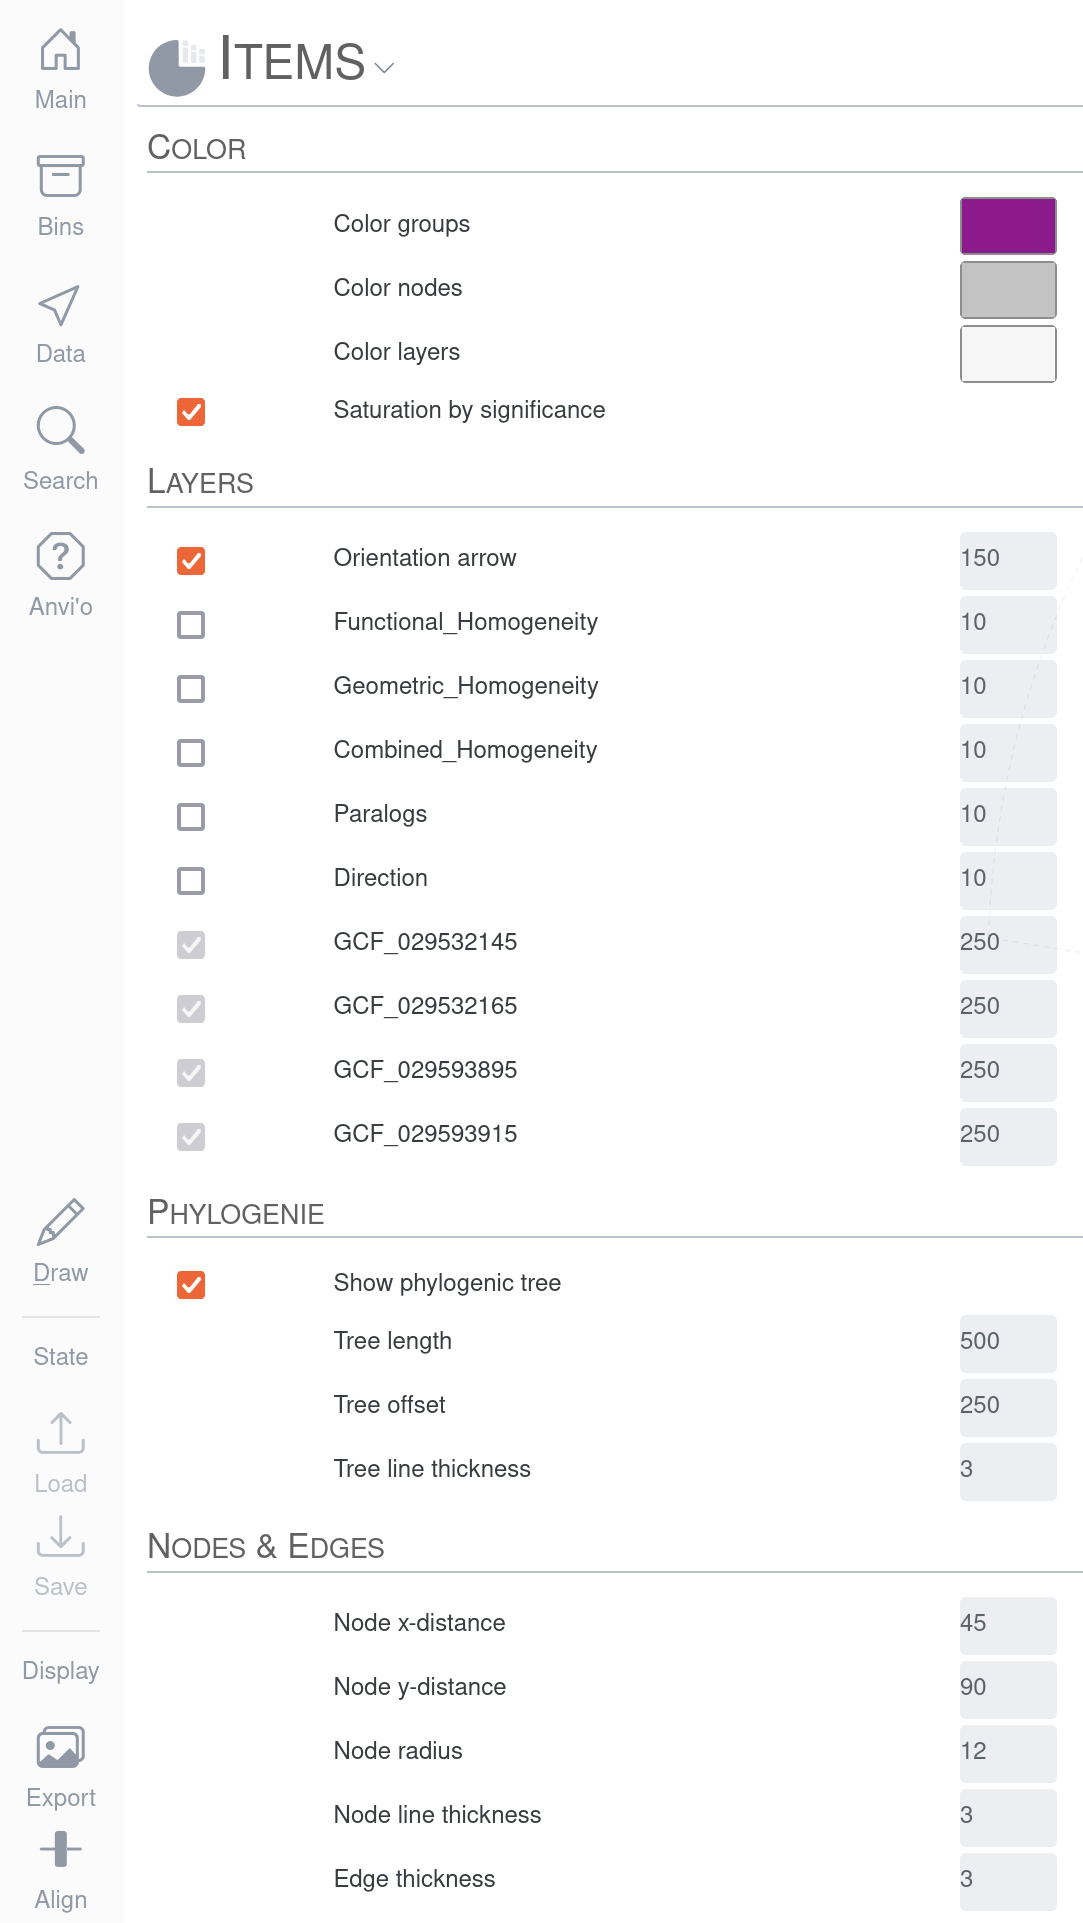
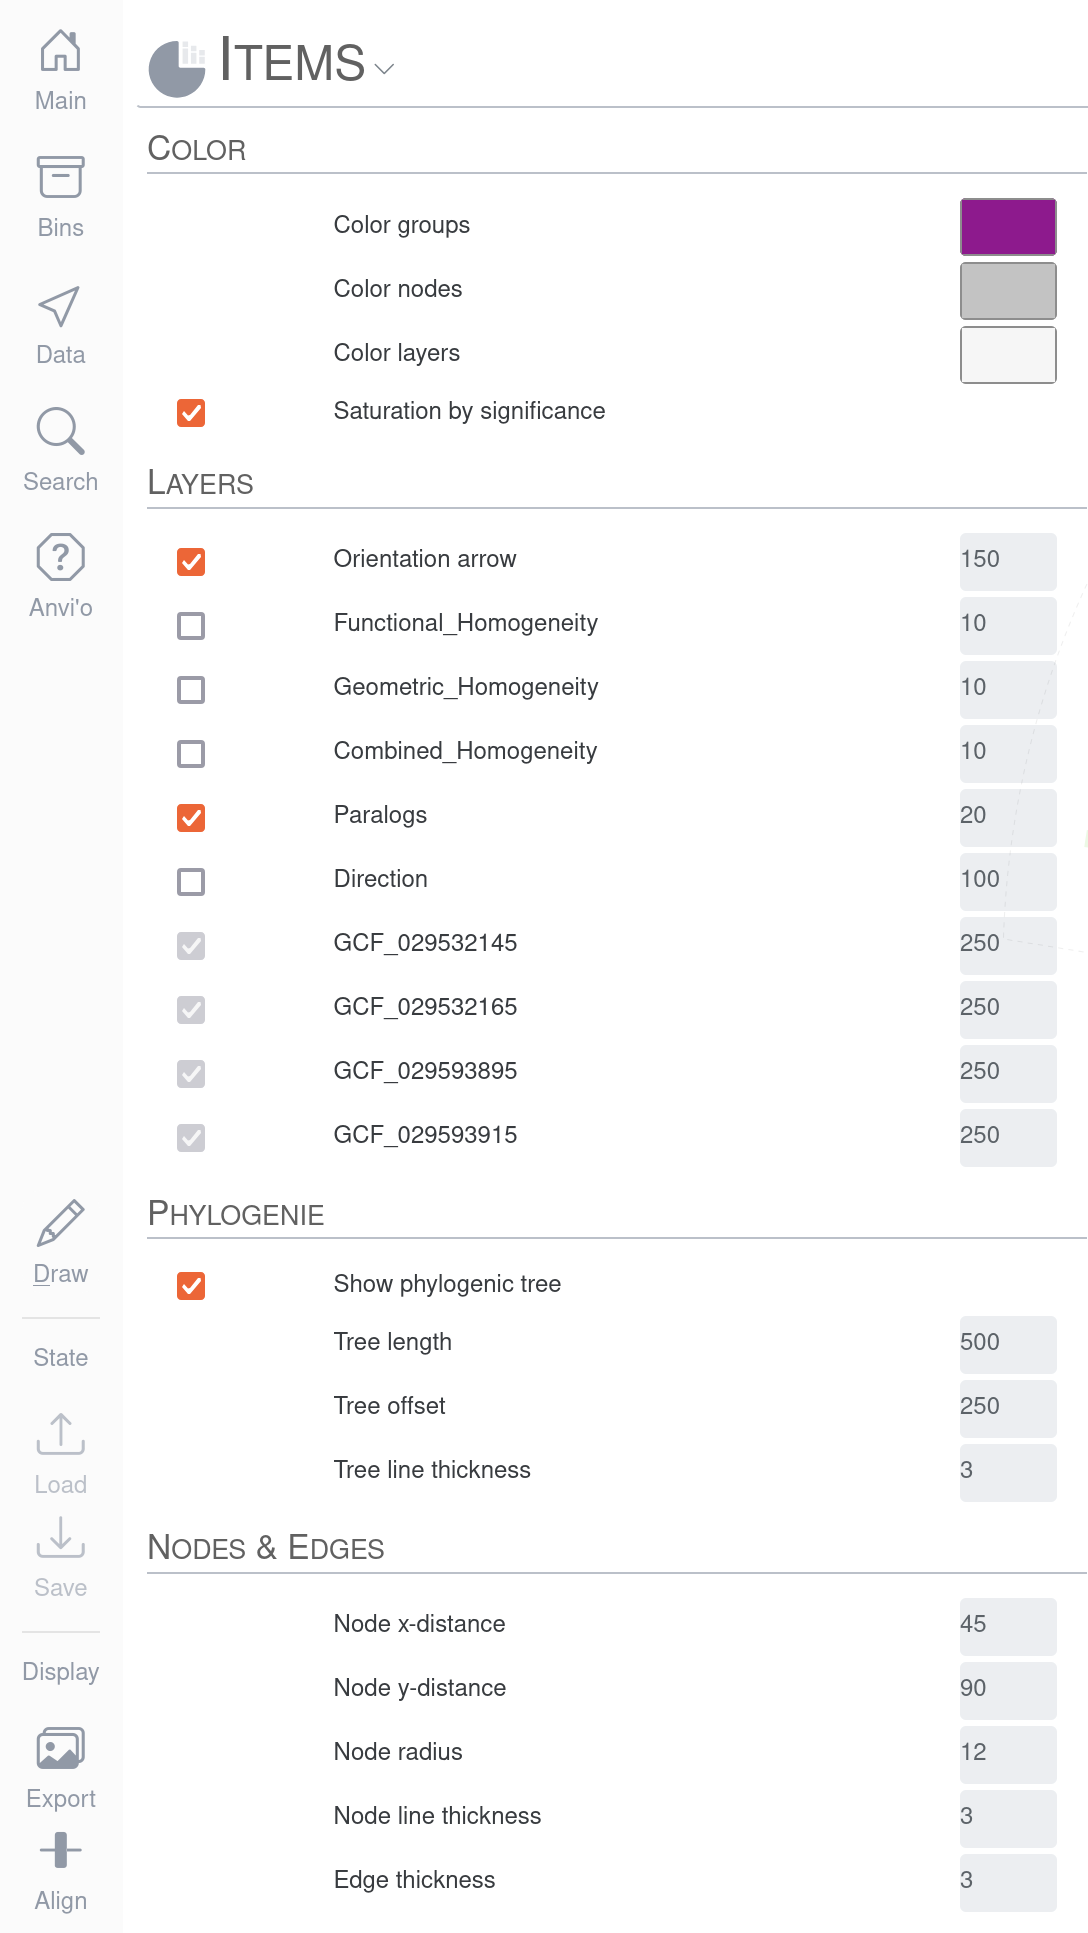
Update: more pictures, more text, polish next

diff --git a/tutorials/pangenome-graphs/index.md b/tutorials/pangenome-graphs/index.md
@@ -33,7 +33,9 @@ The anvi'o pangenomic workflow described here will walk you through the followin
 
 * Step-by-step explanation of graph motives in the {% include ARTIFACT name="interactive" text="anvi'o interactive interface" %} using {% include PROGRAM name="anvi-display-pan-graph" %}
 
-### Dependencies
+## Prerequisites for the tutorial
+
+### Anvi'o dependencies
 
 If your system is properly setup, this {% include PROGRAM name="anvi-self-test" %} command should run without any errors:
 
@@ -50,7 +52,7 @@ anvi-setup-ncbi-cogs
 anvi-setup-kegg-data
 ```
 
-## Get the data
+### Where to find the data
 
 For this workflow we will use four genomes of *Candidatus Lucifugimonas marina* published by Lim et al. in 2023. Two complete genomes (GCA_029593895 & GCA_029593915) and two draft genomes (GCA_029532165, GCA_029532145). First we download all four genomes from the NCBI FTP server.
 
@@ -70,7 +72,7 @@ The current folder structure should look like this.
 &nbsp;&nbsp;&nbsp;&nbsp;&nbsp;&nbsp;&nbsp;&nbsp;├── GCF_029593895.fna\
 &nbsp;&nbsp;&nbsp;&nbsp;&nbsp;&nbsp;&nbsp;&nbsp;└── GCF_029593915.fna
 
-## Order and reorient the draft genomes
+### Order and reorient the draft genomes
 
 In the next step we have to order and reorient the contigs of the draft genome. We use the program {% include PROGRAM name="anvi-reorient-contigs" %} to for this task, based on the longest complete genome present in our folder.
 
@@ -89,7 +91,7 @@ The fasta files containing draft genomes are now ready to be used on the pangeno
 &nbsp;&nbsp;&nbsp;&nbsp;&nbsp;&nbsp;&nbsp;&nbsp;├── GCF_029593895_blast\
 &nbsp;&nbsp;&nbsp;&nbsp;&nbsp;&nbsp;&nbsp;&nbsp;└── GCF_029593915.fna
 
-## Running the anvi'o pangenomics workflow
+## Anvi'o pangenomics workflow
 
 From the workflow we will receive multiple databases that we need for further downstream analysis. A single {% include ARTIFACT name="contigs-db" %} for every genome used, containig informations like genecalls, annotations, etc. The {% include ARTIFACT name="genomes-storage-db" %} a special anvi'o database that stores information about genomes, generated from {% include ARTIFACT name="external-genomes" %}, {% include ARTIFACT name="internal-genomes" %}, or both. And lastly the {% include ARTIFACT name="pan-db" %} created from the {% include ARTIFACT name="genomes-storage-db" %} including all features calculated during the pangenomics analysis. For a more detailed description of these special anvi'o databases please read about it in the [anvi'o pangenomics workflow](https://merenlab.org/2016/11/08/pangenomics-v2/).
 
@@ -183,7 +185,9 @@ Good job, you are done! Your folder structure should look similar to this.
 &nbsp;&nbsp;&nbsp;&nbsp;&nbsp;&nbsp;&nbsp;&nbsp;├── GCF_029593895.fna\
 &nbsp;&nbsp;&nbsp;&nbsp;&nbsp;&nbsp;&nbsp;&nbsp;└── GCF_029593915.fna
 
-## Decide on the genomes subset to use
+## Anvi'o pangenome graph
+
+### Decide on the genomes subset to use
 
 We first run {% include ARTIFACT name="interactive" text="anvi'o interactive interface" %} with {% include PROGRAM name="anvi-display-pan" %} to visualize our pangenome.
 
@@ -206,11 +210,15 @@ After pressing the draw button again, the resulting pangenome should look like t
 
 In the newly added red squares we see the ANI between the genomes of the pangenome. Aside from the diagonal which contains a similarity of 100% due to comparing the same genomes with each other we see a second very high sqare on the top left. The complete genome GCF_029593915 shares a very high ANI with the draft genome GCF_029532145. Therefore our initial step in creating a pangenome graph is to use those two genomes.
 
-## Create an anvi'o pangenome graph
+### Create an anvi'o pangenome graph
+
+To follow the anvi'o naming standard we first create a folder named 05_PANGRAPH.
 
 ```bash
 mkdir 05_PANGRAPH
 ```
+
+Anvi'o pangenome graphs are then created by the command {% include PROGRAM name="anvi-run-pangraph" %} instead of a {% include ARTIFACT name="genomes-storage-db" %} or {% include ARTIFACT name="pan-db" %} the result is written in a json file for now.
 
 ``` bash
 anvi-pan-graph -e external-genomes.txt \
@@ -220,19 +228,37 @@ anvi-pan-graph -e external-genomes.txt \
                -G 'GCF_029593915,GCF_029532145'
 ```
 
+We only used our two genomes from the former step to see how complex the graph already gets. Opening the {% include ARTIFACT name="interactive" text="anvi'o interactive interface" %} functions similar to the one we used before to inspect the pangenome. Instead of {% include PROGRAM name="anvi-display-pan" %} we use the program {% include PROGRAM name="anvi-display-pan-graph" %}. Experienced anvi'o users should feel right at home here and find many functions they already know.
+
 ```bash
 anvi-display-pan-graph -p 03_PAN/Candidatus_Lucifugimonas_marina-PAN.db \
                        -g 03_PAN/Candidatus_Lucifugimonas_marina-GENOMES.db \
                        -i 05_PANGRAPH/Candidatus_Lucifugimonas_marina-JSON.json
 ```
 
+The initial pangenome graph visible in the {% include ARTIFACT name="interactive" text="anvi'o interactive interface" %} should look like this. The grey nodes are single gene clusters (you can click on them to get detailed information on the gene). The purple colored nodes are gene cluster groups, groups are created if a set of single gene clusters is only connected in a single line and present in the same subset of genomes. Gene cluster groups basically help to focus on the *interesting* parts of a pangenome graph. You can also get a detailed view on them by clicking. In the middle you see a arrow showing the graphs flow direction. There are three different types of edges currently implemented in the pangenome graph tool:
+
+1. straight lines: Those are connections between two gene clusters of gene cluster groups following the pangenome graphs flow direction
+2. dashed lines: These are like straight lines but reverse to the pangenome graph flow direction
+3. semi-dashed-lines: These are special and sometimes hard to see, because these are a mix between both of the prior edge types. Imagine a situation where a set of genes is reversed all together in a subset of the genomes. Therefore A - B - C is as correct as C - B - A. We implemented this solution to not overload the graph with extra lines.
+
 {% include IMAGE path="/images/pangenome-graphs/Figure_4.png" width=80 %}
+
+The consensus graph present know can already tell us many stories e.g. insertions and deletions of single genes or full potential operons. To hightlight the genome these events take place in we will change some settings.
 
 {% include IMAGE path="/images/pangenome-graphs/Figure_5_1.png" width=40 %}
 
+First we increase the size of the **Orientation arrow** and activate the layers for the two genomes We also increase them in size. To see the tree based on graph difference we checkmark **Show phylogenic tree** and increase the size of **Tree length** and **Tree offset**. The distance between the nodes on the consensus graph can also be slightly increased. To be able to see the lines in the genome tracks and in the consensus graph we also slightly increase **Node line thickness** and **edge thickness** as well as **Line graph thickness**. Since we increased the **Tree offset** we have more space for labels, therefore, we cann increase the **Label size**. To estimate the size of groups of genes we set the **Group size compression** to a value above 0. Finally we keep the color for GCF_029593915 but shift the entry to the top and color GCF_029532145 in orange. That way all edges and nodes present in both genomes or present in the former one GCF_029593915 will be colored black while edges and nodes only present in GCF_029532145 are colored in orange. Since a line can only have one color, the coloring functions by hierarchy in the list. 
+
 {% include IMAGE path="/images/pangenome-graphs/Figure_5_2.png" width=40 %}
 
+After clicking the draw button again we should be able to see the so called genome tracks in the middle of the pangenome graph to help us understand the origin of specific motives. 
+
 {% include IMAGE path="/images/pangenome-graphs/Figure_6.png" width=80 %}
+
+Before going more into detail on motives and differences here we want to decide if the amount of readable complexity already reached saturation or if we can include the other two genomes as well. If you can not find any visible genomic rearrangements your are free to increase the complexity by adding more genomes. But in the end this is of course a decision to be made by the user :)
+
+After this step your folder structure should look similar to this.
 
 /path/to/\
 &nbsp;&nbsp;&nbsp;&nbsp;&nbsp;&nbsp;&nbsp;&nbsp;├── 00_LOGS\
@@ -261,7 +287,9 @@ anvi-display-pan-graph -p 03_PAN/Candidatus_Lucifugimonas_marina-PAN.db \
 &nbsp;&nbsp;&nbsp;&nbsp;&nbsp;&nbsp;&nbsp;&nbsp;├── GCF_029593895.fna\
 &nbsp;&nbsp;&nbsp;&nbsp;&nbsp;&nbsp;&nbsp;&nbsp;└── GCF_029593915.fna
 
-## Expanding the pangenome graph with the remaining genomes
+### Expanding the pangenome graph
+
+We start the same programs again and just save the pangenome graph in a differently named json file.
 
 ``` bash
 anvi-pan-graph -e external-genomes.txt \
@@ -276,39 +304,72 @@ anvi-display-pan-graph -p 03_PAN/Candidatus_Lucifugimonas_marina-PAN.db \
                        -i 05_PANGRAPH/Candidatus_Lucifugimonas_marina-JSON_2.json
 ```
 
+The initial pangenome graphs looks not to different from the last one but this time we can also see a genomic rearrangement motive that we will discuss later. First we set the settings to the same values as before to be able to see the genome tracks and the hierarchically colored nodes and edges. We also reordered the genomes because the coloring of the pathways work in a hierarchical fashion, therefore having one of the complete genomes on top helps us to understand where the draft genomes broke during assembly.
+
 {% include IMAGE path="/images/pangenome-graphs/Figure_7.png" width=80 %}
 
 {% include IMAGE path="/images/pangenome-graphs/Figure_8_1.png" width=40 %}
 
 {% include IMAGE path="/images/pangenome-graphs/Figure_8_2.png" width=40 %}
 
+When comparing the paralog layer color with the areas where the assemblys of the draft genomes broke, it becomes obvious that paralogous gene clusters broke them. We also see, that in the green genome exactly one gene changed position to some genes upstream. The context around the gene also changed. Furthermore the two draft genomes are nearly as similar in terms of graph structure to each other as the two non draft genomes, noticable by the similar positioned insertions and deletions.
+
 {% include IMAGE path="/images/pangenome-graphs/Figure_9.png" width=80 %}
 
-We also reordered the genomes because the coloring of the pathways work in a hierarchical fashion, therefore having one of the complete genomes on top helps us to understand where the draft genomes broke.
+Going deeper into the pangenome graph can offer much more insides and will be the focus on the next and final chapter of this tutorial.
 
-## Read from the graph - examples and explanaitions
+## Read from the graph - A quick and simple example
 
-
+For the final hands on example in this tutorial, we first open the graph into a linear representation. You are free to also remove the paralog layer as we don't use it for the following examples.
 
 {% include IMAGE path="/images/pangenome-graphs/Figure_10.png" width=40 %}
 
+You might have to left click while moving around a bit to find the linear graph due to svg limitations statt still existed at the time of writing this tutorial.
+
 {% include IMAGE path="/images/pangenome-graphs/Figure_11.png" width=80 %}
+
+In this final example we are interested in the enolase gene paralogs and their distribution over the graph. Therefore we switch to the **Search** tab and activate search in all sources by checkmarking them. Under **Terms** we can then state what kind of genes we are searching for. Finally click **Search** and then **Hightlight** on the bottom.
 
 {% include IMAGE path="/images/pangenome-graphs/Figure_12.png" width=80 %}
 
+We scroll throught the linear graph to find an interesting region with high coverage of paralog genes. For this tutorial the area with 5 connected enolase genes seems appropriate but you can choose whatever you prefer.
+
 {% include IMAGE path="/images/pangenome-graphs/Figure_13.png" width=80 %}
+
+We then pick a gene upstream and a gene downstream of the interesting region and click on them one after each other and make a note about the graph position somewhere.
 
 {% include IMAGE path="/images/pangenome-graphs/Figure_14.png" width=80 %}
 
 {% include IMAGE path="/images/pangenome-graphs/Figure_15.png" width=80 %}
 
+Next we can now checkmark **Ungroup area** under the **Main** tab and enter the region from the downstram to the upstream gene.
+
 {% include IMAGE path="/images/pangenome-graphs/Figure_16.png" width=40 %}
+
+After removing the checkmark from **Linear graph layout** and then clicking on **Draw** again we will see the circular graph again with the unfolded area that we are interested in.
 
 {% include IMAGE path="/images/pangenome-graphs/Figure_17.png" width=80 %}
 
+You can now proceed with binning these areas if you want. Go to the **Bins** tab and rename the bin, e.g. to **Enolase** and give it a color of your choice. By holding the shift key while left-clicking on a node you can add this node to the bin. We first add the fife enolase genes into one bin and afterwards create a second bin with the long blue insertion.
+
 {% include IMAGE path="/images/pangenome-graphs/Figure_18.png" width=80 %}
 
+If we click on **Bin info** a scrollable table will appear showing you all the single information windows of the currently selected bin. An easy analysis now would be to check if the second bin containing the genes of the inserted area is coming from a phage by scanning through the annotations.
+
 {% include IMAGE path="/images/pangenome-graphs/Figure_19.png" width=80 %}
+
+## More tutorials and resources
+
+We hope you liked following this tutorial and enjoy your next pangenome graph analysis. Many features of the UI are not mentioned in this tutorial as we wanted to keep it as simple as possible. Also please feel free to reach out in case you have ideas or questions. In case you are interested in more tutorials on other disciplines covered by anvi'o please have a look at the following links.
+
+- [The infant gut tutorial](https://merenlab.org/tutorials/infant-gut/)
+- [Studying microbial population genetics with anvi'o](https://merenlab.org/2015/07/20/analyzing-variability/)
+- [A simple read recruitment exercise](https://merenlab.org/tutorials/read-recruitment/).
+- [An exercise on metabolic reconstruction](https://merenlab.org/tutorials/fmt-mag-metabolism/).
+- [A tutorial on the anvi'o interactive interface](https://merenlab.org/tutorials/interactive-interface/).
+
+And more at [https://anvio.org/#learn](https://anvio.org/#learn).
+
 
 <!---
 JUST SOME IDEAS:
